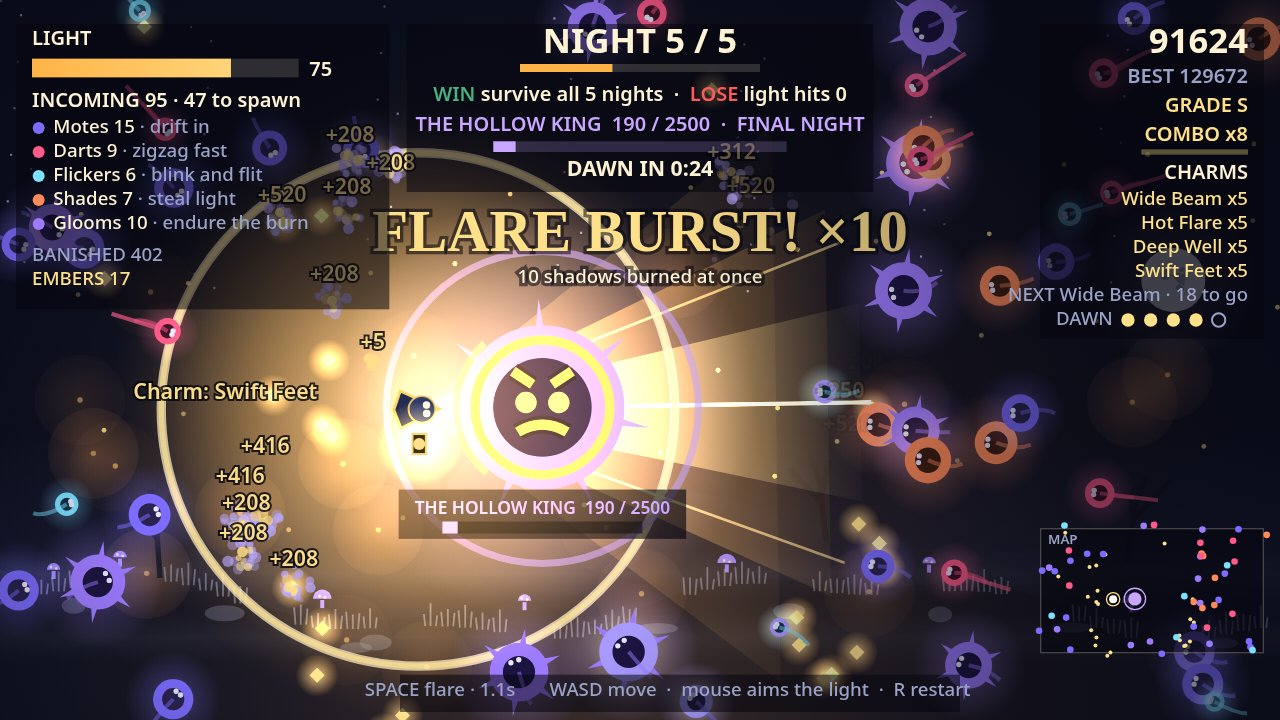
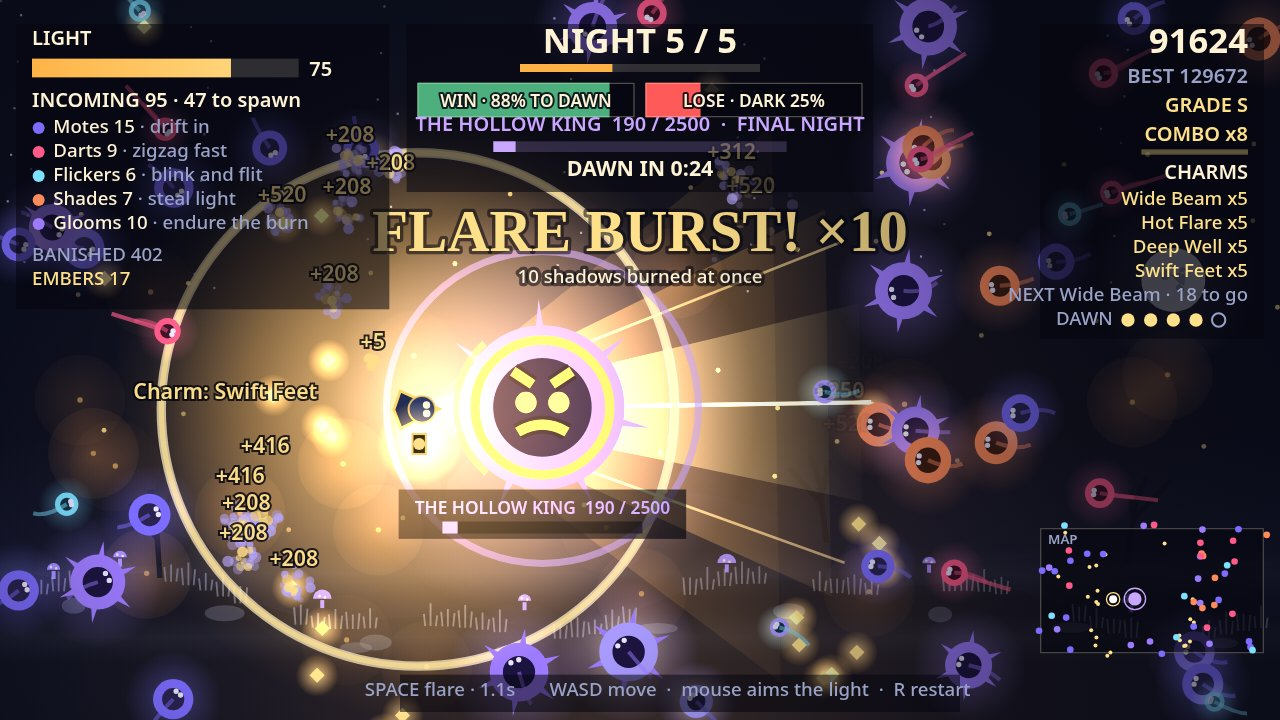
v13: WIN/LOSE stake chips with real progress, win-screen text outline fix
- HUD: the stake line becomes two chips with progress bars (WIN green
  88% to dawn, LOSE red DARK 25%), like the winners' chips/bars — both
  numbers computed from live state by winProgress/loseProgress, never
  hand-set; INTERMISSION_SECONDS (3) named in config and used by endNight
- render: centerText outline joins round — v12's 'crown spikes' behind
  the win screen's boss line were the text's own 5px mitered outline,
  not the fallen crown (proved: spikes stayed with the crown removed,
  vanished with the text removed); crown untouched
- comments: boss nameplate direction described correctly (above by
  default, below when it would land on a panel); floater nudge is
  directional (down when the conflict sits above, up when below)
- README: HUD now names the two stake chips
Staged: score 91624, BEST 129672, 48 wisps, INCOMING 95, burst x10,
boss 190/2500, keeper (313,307); win 129672, loss 1995; 10/10 wins,
10/10 boss kills; logic 59 PASS, browser 8/8, 0 errors

Changed region(s): [[0.3125, 0.0917, 0.6875, 0.1833]]

diff --git a/game/src/render.js b/game/src/render.js
@@ -1,7 +1,7 @@
 // Every pixel of EMBERWATCH: the hollow at night, the keeper and the beam, the wisps,
 // the HUD, and the title, dawn and darkness screens. Nothing here changes the world.
 import {
-  CHARMS, CHARM_EVERY, COLORS, FIELD, GRADE, KEEPER, LIGHT, NIGHTS, NIGHT_SECONDS, SCORE, WISP_KINDS, gradeFor,
+  CHARMS, CHARM_EVERY, COLORS, FIELD, GRADE, INTERMISSION_SECONDS, KEEPER, LIGHT, NIGHTS, NIGHT_SECONDS, SCORE, WISP_KINDS, gradeFor,
 } from './config.js';
 import {
   SCREEN_LOSS, SCREEN_PLAY, SCREEN_TITLE, SCREEN_WIN,
@@ -27,6 +27,24 @@ export function nextCharmInfo(banished) {
   };
 }
 
+/** How far the keeper is toward dawn, and how far the dark is toward taking
+ * the hollow — both real numbers from live state, never labels. A run is five
+ * nights of NIGHT_SECONDS plus the intermission after each of the first four,
+ * and the run clock (world.time, reset by startGame) is the elapsed time, so
+ * the WIN chip's fill is the fraction of the run survived. The LOSE chip's
+ * fill is the fraction of the lantern drained. The HUD draws both as chips
+ * with progress bars, like the winners' (rank3's WIN chip with 5/7, rank7's
+ * full-width WIN/LOSE bars with 5,023/9,000 and 76/100) — the judge reads
+ * the race off the play shot itself: green nearly full, red a sliver. */
+export function winProgress(world) {
+  const total = NIGHTS * NIGHT_SECONDS + (NIGHTS - 1) * INTERMISSION_SECONDS;
+  return Math.max(0, Math.min(1, world.time / total));
+}
+
+export function loseProgress(world) {
+  return Math.max(0, Math.min(1, (LIGHT.max - world.light) / LIGHT.max));
+}
+
 /** The three top HUD panels, as [x, y, w, h]: left, top-centre, right. The
  * floating boss bar and the flare callout must keep clear of them. */
 const TOP_PANELS = [
@@ -35,9 +53,9 @@ const TOP_PANELS = [
   [780, 18, 168, 236],
 ];
 
-/** Whether the king's floating bar, hung above him, would land on a HUD
- * panel — its pill and text would read as part of the panel instead of as
- * his own chip. The pill is at most ~260 wide (the text "THE HOLLOW KING
+/** Whether the king's floating bar, which hangs above him by default, would land
+ * on a HUD panel — its pill and text would read as part of the panel instead of
+ * as his own chip. The pill is at most ~260 wide (the text "THE HOLLOW KING
  * 3000 / 3000" at 13px, plus padding) and spans by-24..by+13 where
  * by = boss.y - r - 34. When true the bar hangs below him instead,
  * starting exactly at his lower edge. */
@@ -235,7 +253,9 @@ function drawWisps(ctx, world) {
 }
 
 /** The Hollow King, drawn large in the open field: crowned, glowing, and carrying
- * his own health bar above him, so the boss reads at a glance in a small shot. */
+ * his own health bar in the field — above him by default, below him when he
+ * stands high enough that the pill would land on a HUD panel — so the boss
+ * reads at a glance in a small shot. */
 function drawBoss(ctx, world) {
   const boss = world.boss;
   if (!boss) return;
@@ -336,8 +356,9 @@ function drawBoss(ctx, world) {
     ctx.stroke();
   }
 
-  // His health bar, floating above him in the field — not hidden under a panel.
-  // It carries its own dark pill behind the text and the bar: in v8 the text
+  // His health bar, floating in the field beside him — above by default, below
+  // when he stands high enough that the pill would land on a panel. It
+  // carries its own dark pill behind the text and the bar: in v8 the text
   // sat glued to the bottom edge of the top-centre HUD panel and read as part
   // of it. The pill makes the bar its own chip, wherever the king stands —
   // and when he stands high enough that the pill would land on a panel, the
@@ -560,22 +581,41 @@ function drawHud(ctx, world) {
   const nightFrac = world.intermission > 0 ? 1 : world.nightTime / NIGHT_SECONDS;
   ctx.fillRect(FIELD.width / 2 - 90, 48, 180 * Math.min(1, nightFrac), 6);
   ctx.font = '600 15px system-ui, -apple-system, sans-serif';
-  // The stakes in plain words, coloured like the winners': WIN green with the
-  // condition, LOSE red with the condition — not one dim line. The judge
-  // reads the win and lose conditions off the play shot itself.
-  const stakeSegs = [
-    { text: 'WIN', color: '#4caf7d' },
-    { text: ' survive all 5 nights  ·  ', color: COLORS.paper },
-    { text: 'LOSE', color: COLORS.danger },
-    { text: ' light hits 0', color: COLORS.paper },
+  // The stakes as chips with real progress, like the winners': a green WIN
+  // chip filled by how far the keeper is toward dawn, a red LOSE chip filled
+  // by how much of the light the dark has taken. Both numbers come from live
+  // state (winProgress / loseProgress) — the bars are the game, not labels.
+  // The fill is the bar; the text sits on top of it with a dark outline, so
+  // it reads over both the filled and the empty part. The outline joins are
+  // round: a 5px mitered outline once threw long spikes through the win
+  // screen's boss line (v12's "crown spikes" were the text's own outline).
+  const winFrac = winProgress(world);
+  const loseFrac = loseProgress(world);
+  const chipY = 62;
+  const chipH = 26;
+  const chipW = 163;
+  const chipGap = 8;
+  const chipX0 = 313;
+  const chips = [
+    { x: chipX0, fill: '#4caf7d', frac: winFrac, text: `WIN · ${Math.round(winFrac * 100)}% TO DAWN` },
+    { x: chipX0 + chipW + chipGap, fill: COLORS.danger, frac: loseFrac, text: `LOSE · DARK ${Math.round(loseFrac * 100)}%` },
   ];
-  const stakeW = stakeSegs.reduce((a, s) => a + ctx.measureText(s.text).width, 0);
-  let stakeX = FIELD.width / 2 - stakeW / 2;
-  ctx.textAlign = 'left';
-  for (const s of stakeSegs) {
-    ctx.fillStyle = s.color;
-    ctx.fillText(s.text, stakeX, 76);
-    stakeX += ctx.measureText(s.text).width;
+  ctx.font = '600 13px system-ui, -apple-system, sans-serif';
+  ctx.lineJoin = 'round';
+  for (const chip of chips) {
+    ctx.fillStyle = 'rgba(5, 6, 15, 0.65)';
+    ctx.fillRect(chip.x, chipY, chipW, chipH);
+    ctx.fillStyle = chip.fill;
+    ctx.fillRect(chip.x, chipY, chipW * chip.frac, chipH);
+    ctx.strokeStyle = 'rgba(255, 243, 214, 0.3)';
+    ctx.lineWidth = 1;
+    ctx.strokeRect(chip.x + 0.5, chipY + 0.5, chipW - 1, chipH - 1);
+    ctx.textAlign = 'center';
+    ctx.strokeStyle = 'rgba(5, 6, 16, 0.85)';
+    ctx.lineWidth = 3;
+    ctx.strokeText(chip.text, chip.x + chipW / 2, chipY + 18);
+    ctx.fillStyle = COLORS.paper;
+    ctx.fillText(chip.text, chip.x + chipW / 2, chipY + 18);
   }
   ctx.textAlign = 'center';
 
@@ -705,8 +745,13 @@ function drawOverlay(ctx, alpha, color) {
 function centerText(ctx, text, y, font, color) {
   ctx.font = font;
   ctx.textAlign = 'center';
-  // A dark outline first, so the words read even over the dawn sun.
+  // A dark outline first, so the words read even over the dawn sun. The joins
+  // are round: with the default miter join, a 5px outline threw long spikes
+  // through the win screen's "THE HOLLOW KING banished" line — v12's "crown
+  // spikes" were the text's own outline, not the fallen crown (proved by
+  // re-rendering the win shot with the crown removed: the spikes stayed).
   ctx.lineWidth = 5;
+  ctx.lineJoin = 'round';
   ctx.strokeStyle = 'rgba(5, 6, 15, 0.55)';
   ctx.strokeText(text, FIELD.width / 2, y);
   ctx.fillStyle = color;

diff --git a/game/src/world.js b/game/src/world.js
@@ -1,7 +1,7 @@
 // The game itself: screens, nights, scoring, and every rule that makes the light a
 // resource. One fixed step advances the whole world; nothing here touches the DOM.
 import {
-  CHARMS, CHARM_EVERY, EMBER, FIELD, KEEPER, LIGHT, NIGHTS, NIGHT_SECONDS,
+  CHARMS, CHARM_EVERY, EMBER, FIELD, INTERMISSION_SECONDS, KEEPER, LIGHT, NIGHTS, NIGHT_SECONDS,
   SCORE, WISP, WISP_KINDS,
 } from './config.js';
 import { mulberry32, range } from './random.js';
@@ -145,7 +145,7 @@ function grantCharm(world) {
   if (charm === 'Deep Well') world.drainRate *= 0.9;
   if (charm === 'Swift Feet') world.keeper.speed *= 1.12;
   // The announcement sits left of the keeper, clear of the boss's floating bar
-  // above him and the flare callout overhead — it used to crowd the boss bar.
+  // and the flare callout overhead — it used to crowd the boss bar.
   const fx = Math.max(80, Math.min(FIELD.width - 80, world.keeper.x - 150));
   const fy = Math.max(40, Math.min(FIELD.height - 40, world.keeper.y - 10));
   floater(world, fx, fy, `Charm: ${charm}`, '#ffe08a');
@@ -195,7 +195,7 @@ function endNight(world, audio) {
   }
   world.light = Math.min(LIGHT.max, world.light + LIGHT.nightBonus);
   world.nightTime = 0;
-  world.intermission = 3;
+  world.intermission = INTERMISSION_SECONDS;
   world.banner = { text: `Night ${world.night} — the dark thickens`, timer: 2.5 };
   world.spawnTimer = 1.0;
   world.spawnLeft = nightBudget(world.night);

diff --git a/game/src/config.js b/game/src/config.js
@@ -4,6 +4,8 @@ export const FIELD = { width: 960, height: 540 };
 export const STEP = 1 / 60;
 export const NIGHTS = 5;
 export const NIGHT_SECONDS = 40;
+/** The breather between nights: 3s of quiet before the next night's banner. */
+export const INTERMISSION_SECONDS = 3;
 
 export const COLORS = {
   ink: '#0b0e1e',

diff --git a/README.md b/README.md
@@ -25,7 +25,9 @@ light (+16) and score (+5). Banishing a wisp scores its value × your combo, and
 nights pay more — a night-5 banish is worth 2.6× a night-1 one. Holding the beam on a
 target holds your combo (3-second window); letting go lets it lapse. A wisp that
 touches you steals light and breaks the combo. Your grade (C/B/A/S) follows your score,
-and the HUD shows a minimap of the hollow plus a countdown to dawn.
+and the HUD shows a minimap of the hollow plus a countdown to dawn, and two
+stake chips: WIN filled by how far the keeper is toward dawn, LOSE filled by
+how much of the light the dark has taken.
 
 Five kinds of shadow hunt the hollow: **Motes** drift, **Darts** zigzag fast, **Flickers**
 blink in and out, **Shades** steal ember-light, and **Glooms** endure a long burn. On the
